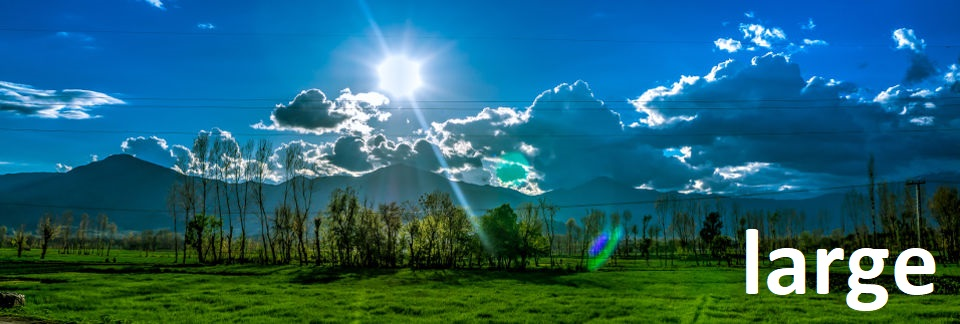
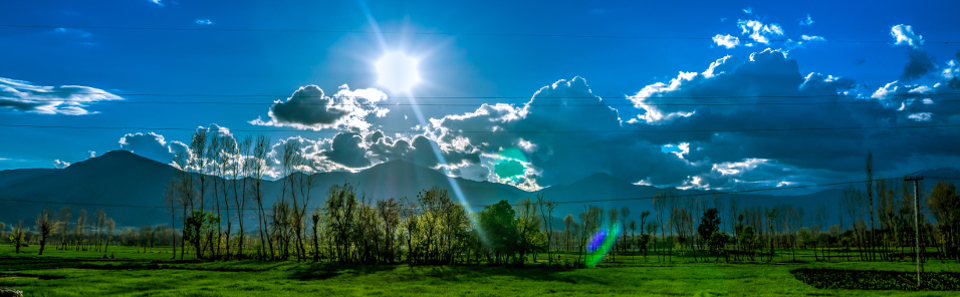
srcset and weather summary

diff --git a/assignments/lesson-6/franklin-6.html b/assignments/lesson-6/franklin-6.html
@@ -50,10 +50,10 @@
       <h2>Franklin, MN</h2>
 
       <picture>
-        <img class="Franklin" src="images/franklin-original-large.jpeg" alt="Landscape of Franklin, MN" sizes="96vw"
-             srcset="images/franklin-original/franklin-city-small.jpg 400w,
-                     images/franklin-original/franklin-city-medium.jpg 500w,
-                     images/franklin-original/franklin-city-large.jpeg 960w,">
+        <img class="franklin" src="images/franklin-original-medium-crop.jpg" alt="Landscape of Franklin, MN" sizes="100vw"
+             srcset="images/franklin-city-small.jpg 600w,
+                     images/franklin-city-medium.jpg 1024w,
+                     images/franklin-city-large.jpg 1200w">
       </picture>
 
       <section class="weather-summary">
@@ -62,8 +62,8 @@
           <span class="weather-type">Sunny</span>
           <picture>
             <img src="images/rsz_sunny-icon.png" alt="Sunny Weather Icon" sizes="100vw"
-                 srcset="images/rsz_sunny-icon.png 400w,
-                         images/rsz_stormy-weather-icon.png 950w,">
+                 srcset="images/rsz_sunny-icon.png 900w,
+                         images/sunny-icon.png 1200w,">
           </picture>
         </div>
 
@@ -180,7 +180,9 @@
         <h3>Franklin Breaks Record</h3>
         <div class="swap">
           <picture>
-            <img src="images/fallen-trees-in-Franklin.jpg" alt="Damaged home in Franklin, MN, from wind storm">
+            <img src="images/fallen-trees-in-Franklin.jpg" alt="Damaged home in Franklin, MN, from wind storm" sizes="48vw"
+                 srcset="images/fallen-trees-in-Franklin.jpg 300w,
+                         images/fallen-trees-2.jpg 480w,">
           </picture>
           <p class="town-article">
             Franklin broke a new record for maximum wind speeds in the area on May 24, 2017. Previous maximum wind speeds for the town were recorded on April 28, 1984, and measured at 89 mph. On Thursday, the wind speed topped out at 92 mph. Even with warning by local weather stations to be prepare properties and outside items for high winds, the residents of Franklin still face a large-scale recovery project.

diff --git a/assignments/lesson-6/styles/medium-5.css b/assignments/lesson-6/styles/medium-5.css
@@ -81,10 +81,6 @@
     float: left;
     width: 48%;
     display: inline-block;
-  }
-
-  .weather-summary picture img {
-    display: table-cell;
     padding-top: 20px;
   }
 
@@ -101,15 +97,23 @@
     padding-bottom: 10px;
   }
 
-  .current picture {
-    float: left;
-  }
-
   .weather-type {
     font-size: 2.0rem;
     line-height: 32px;
-    padding: 20px 0px;
-    float: right;
+    padding: 10px 0px;
+  }
+
+  .current {
+    width: 200px;
+    display: flex;
+    flex-direction: row-reverse;
+    align-items: center;
+    justify-content: center;
+  }
+
+  .current picture {
+    margin: 0px;
+    padding: 0px;
   }
 
   section.forecast {

diff --git a/assignments/lesson-6/styles/main-5.css b/assignments/lesson-6/styles/main-5.css
@@ -136,16 +136,9 @@ h2 {
   font-size: 1.5rem;
 }
 
-img.franklin {
+.franklin {
   margin: 0 0 .2rem 2%;
   width: 96%;
-}
-
-section.weather-summary picture {
-  display: block;
-  width: 96%;
-  height: auto;
-  margin: auto;
 }
 
 .weather-summary {
@@ -159,6 +152,12 @@ section.weather-summary picture {
 .current {
   margin: auto;
   display: table;
+}
+
+.current picture {
+  display: block;
+  height: auto;
+  margin: auto;
 }
 
 .weather-type {

diff --git a/assignments/lesson-6/styles/large-5.css b/assignments/lesson-6/styles/large-5.css
@@ -20,8 +20,6 @@
 
   .franklin {
     display: block;
-    position: absolute;
-    top: 100px;
   }
 
   .weather-summary {
@@ -82,6 +80,10 @@
 
   section.forecast {
     padding: 5px 0px 0px 0px;
+  }
+
+  .forecast h3 {
+    padding: 0px 0px 20px 0px;
   }
 
   h3 {
